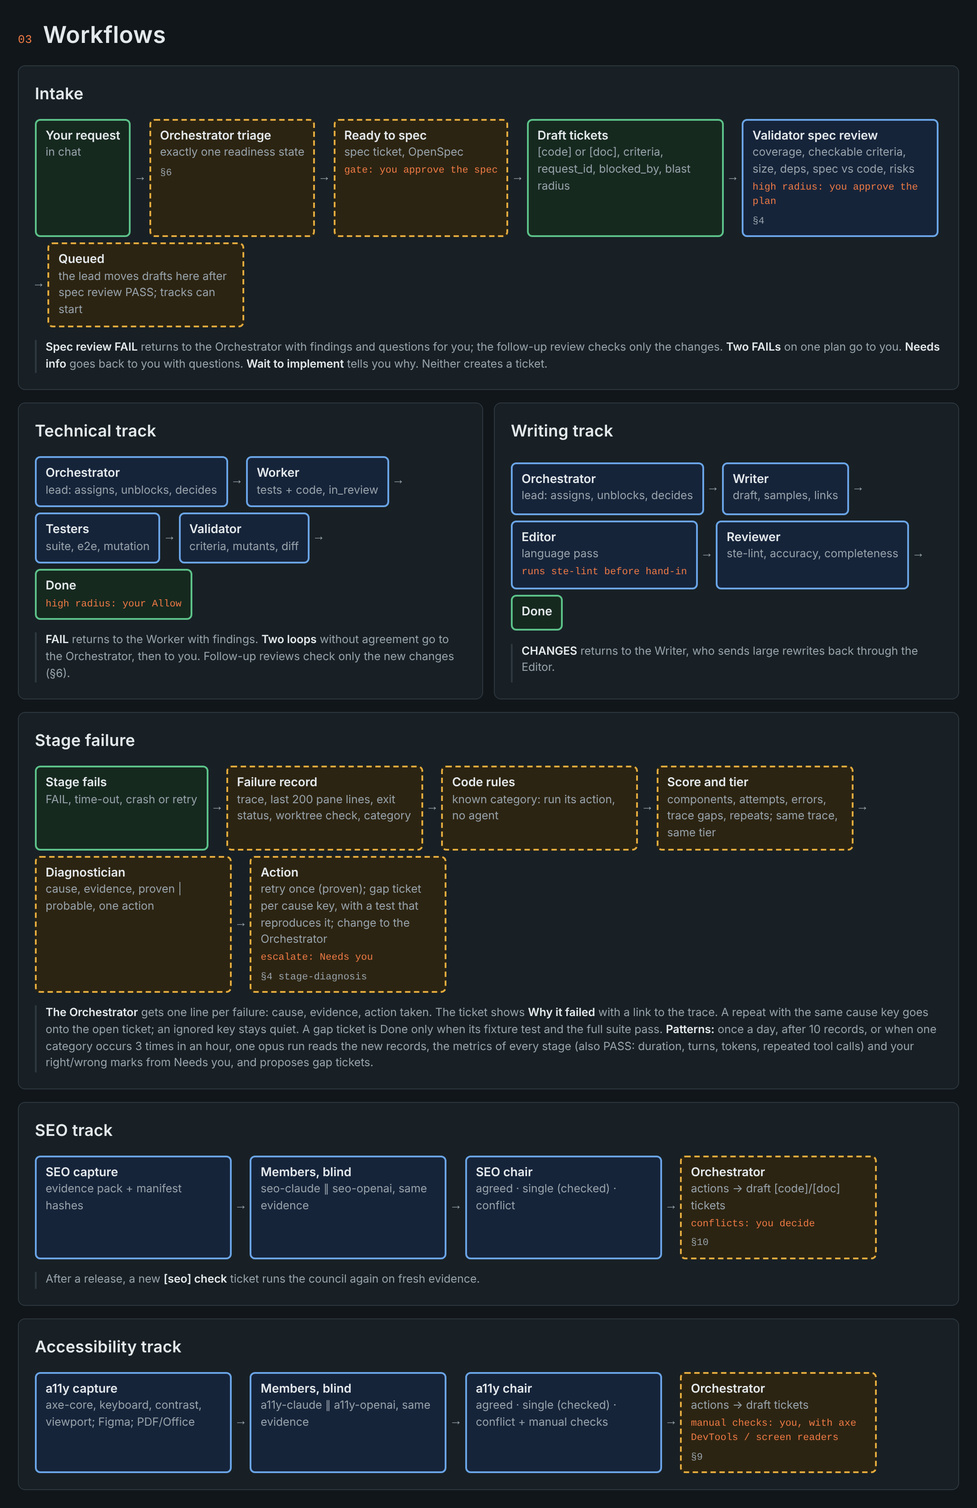
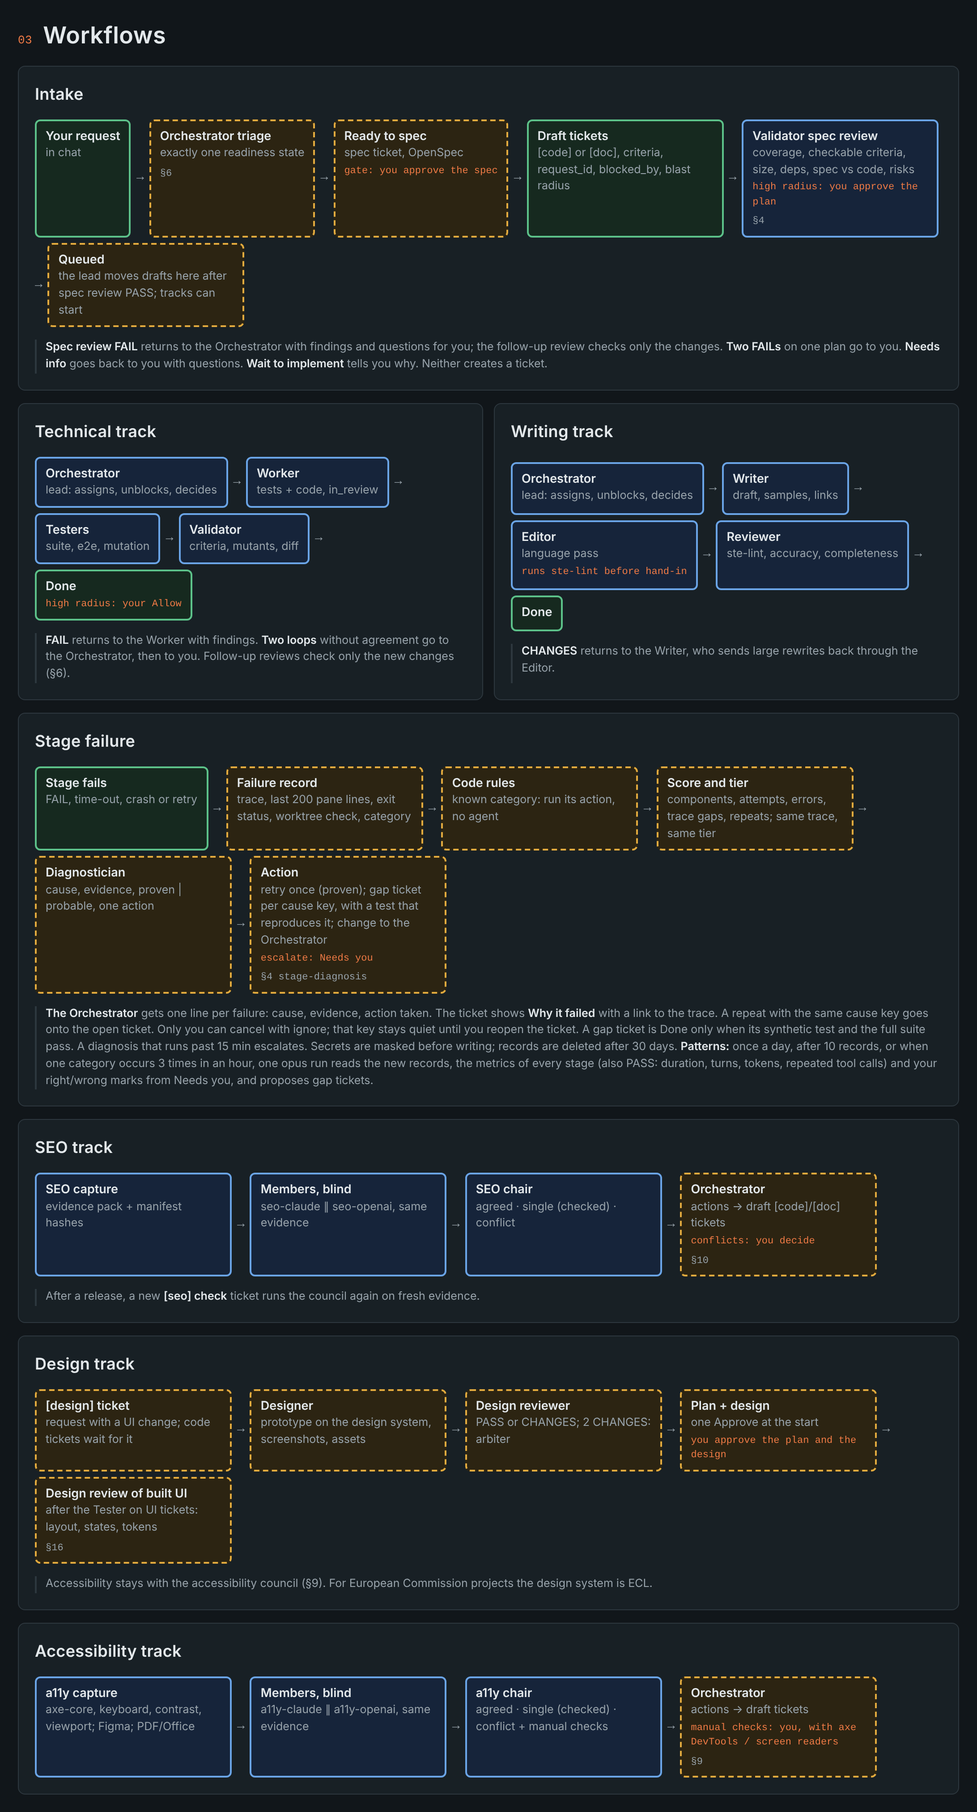
docs: Part 16 design team before Part 14 (mockups for the redesign); Part 6 item 6 cache finding note; map

diff --git a/docs/factory-map.html b/docs/factory-map.html
@@ -328,6 +328,14 @@ footer{color:var(--muted);font-size:12.5px;display:grid;gap:4px}
       <dt>never</dt><dd>changes code or content, ranking guarantees, one SEO score</dd></dl>
     </article>
 
+    <article class="n planned role">
+      <div class="head"><h3>Design team</h3><span class="model">Claude + 2nd model</span></div>
+      <span class="track">Design track · 2 roles</span>
+      <p class="job">Designer (opus for new work, sonnet for changes) makes UI designs before the build, the project design system (ECL for EC projects) and SVG assets. Design reviewer (a different model) checks designs, then the built UI against the approved design.</p>
+      <dl><dt>skills</dt><dd>ui-designer, ux-architect, design-system, frontend-design-direction, frontend-ui-engineering; reviewer: ui-finish-gate-reviewer</dd>
+      <dt>never</dt><dd>changes product code, approves its own work, copies brand marks</dd></dl>
+    </article>
+
     <article class="n defined role">
       <div class="head"><h3>Accessibility &amp; usability council</h3><span class="model">Claude + OpenAI</span></div>
       <span class="track">Accessibility track · 4 seats</span>
@@ -407,6 +415,18 @@ footer{color:var(--muted);font-size:12.5px;display:grid;gap:4px}
   </div>
 
   <div class="panel">
+    <h3>Design track</h3>
+    <div class="flow">
+      <div class="n planned"><span class="t">[design] ticket</span><span class="d">request with a UI change; code tickets wait for it</span></div><span class="arrow">→</span>
+      <div class="n planned"><span class="t">Designer</span><span class="d">prototype on the design system, screenshots, assets</span></div><span class="arrow">→</span>
+      <div class="n planned"><span class="t">Design reviewer</span><span class="d">PASS or CHANGES; 2 CHANGES: arbiter</span></div><span class="arrow">→</span>
+      <div class="n planned"><span class="t">Plan + design</span><span class="d">one Approve at the start</span><span class="gate">you approve the plan and the design</span></div><span class="arrow">→</span>
+      <div class="n planned"><span class="t">Design review of built UI</span><span class="d">after the Tester on UI tickets: layout, states, tokens</span><span class="ref">§16</span></div>
+    </div>
+    <p class="loop">Accessibility stays with the accessibility council (§9). For European Commission projects the design system is ECL.</p>
+  </div>
+
+  <div class="panel">
     <h3>Accessibility track</h3>
     <div class="flow">
       <div class="n defined"><span class="t">a11y capture</span><span class="d">axe-core, keyboard, contrast, viewport; Figma; PDF/Office</span></div><span class="arrow">→</span>
@@ -461,7 +481,7 @@ footer{color:var(--muted);font-size:12.5px;display:grid;gap:4px}
 <!-- 6 BUILD ORDER -->
 <section class="sec" aria-labelledby="h-seq">
   <h2 id="h-seq"><span class="num">06</span>Build order</h2>
-  <p class="intro">The migration comes first, then the rebrand, so Cubilot runs beside the previous app without touching it. Parts 1 to 4 give a working factory with fresh sessions, and 4a gives the agent column that Part 4 needs for its tests. Part 6 comes next, before Part 5 (decision 2026-10-26): review format and model routing make the agents more reliable, and delivery and backup is a local item that can wait. Part 12 follows Part 6 (decision 2026-10-27): the desktop app approach is limiting, so the hub serves the UI to any browser and can run on Linux before the later parts are built. Part 14 follows Part 12 (decision 2026-10-28), so the redesign is done once, on the browser UI. Parts 7 to 10 add toolchain, setup and the two councils; 11 and 13 improve it.</p>
+  <p class="intro">The migration comes first, then the rebrand, so Cubilot runs beside the previous app without touching it. Parts 1 to 4 give a working factory with fresh sessions, and 4a gives the agent column that Part 4 needs for its tests. Part 6 comes next, before Part 5 (decision 2026-10-26): review format and model routing make the agents more reliable, and delivery and backup is a local item that can wait. Part 12 follows Part 6 (decision 2026-10-27): the desktop app approach is limiting, so the hub serves the UI to any browser and can run on Linux before the later parts are built. Part 16 (design team) follows Part 12 and makes the mockups; Part 14 builds them, so the redesign is done once, on the browser UI (decisions 2026-10-28). Parts 7 to 10 add toolchain, setup and the two councils; 11 and 13 improve it.</p>
   <div class="seq">
     <div class="n built first"><span class="step">Step 0</span><span class="t">Migrate to new repo</span><span class="d">done: mnw/Cubilot, fresh history</span></div>
     <div class="n built"><span class="step">1</span><span class="t">Rebrand to Cubilot</span><span class="d">done: own identifier and data folder, side by side with the previous app</span><span class="ref">§1</span></div>
@@ -471,7 +491,8 @@ footer{color:var(--muted);font-size:12.5px;display:grid;gap:4px}
     <div class="n built"><span class="step">4a</span><span class="t">Agent column</span><span class="d">done: built to test Part 4; reload one agent, skill switches</span><span class="ref">§4a</span></div>
     <div class="n planned"><span class="step">6</span><span class="t">Touchpoints, checkpoint, guards, routing</span><span class="d">in planning (human-touchpoints-checkpoint): human only at start and delivery (arbiter, delivery report) with the Orchestrator checkpoint; then plan check, flow report, stop rules; then model × effort; triage, spec stage, review.json</span><span class="ref">§6</span></div>
     <div class="n planned"><span class="step">12</span><span class="t">Hub-first, browser, Linux</span><span class="d">after Part 6: hub serves the UI, terminal layer into the hub, browser access and pairing, Linux</span><span class="ref">§12</span></div>
-    <div class="n planned"><span class="step">14</span><span class="t">UI redesign</span><span class="d">after Part 12, on the browser UI: title bar, tab bar, roster view; WCAG 2.2 AA (agent rail done in 4a)</span><span class="ref">§14</span></div>
+    <div class="n planned"><span class="step">16</span><span class="t">Design team</span><span class="d">after Part 12, before 14: design track (Designer, Design reviewer); makes the mockups for the redesign; design system, design review, assets</span><span class="ref">§16</span></div>
+    <div class="n planned"><span class="step">14</span><span class="t">UI redesign</span><span class="d">after Parts 12 and 16, from the design team's mockups: title bar, tab bar, roster view; WCAG 2.2 AA (agent rail done in 4a)</span><span class="ref">§14</span></div>
     <div class="n planned"><span class="step">5</span><span class="t">Delivery and backup</span><span class="d">after Part 14: internal remote, Deliver step, leak gate, hourly backup</span><span class="ref">§5</span></div>
     <div class="n planned"><span class="step">7</span><span class="t">Toolchain</span><span class="d">bundled tools, worktrees, Serena limits</span><span class="ref">§7</span></div>
     <div class="n planned"><span class="step">8</span><span class="t">Setup and admin</span><span class="d">components, accounts, projects, Doctor</span><span class="ref">§8</span></div>
@@ -484,7 +505,7 @@ footer{color:var(--muted);font-size:12.5px;display:grid;gap:4px}
 </section>
 
 <footer>
-  <span>Sources: <code>factory/README.md</code>, <code>factory/brief/</code> (index + 16 part files; §N = <code>brief/NN-*.md</code>), and <code>MIGRATION.md</code> for the source of the code.</span>
+  <span>Sources: <code>factory/README.md</code>, <code>factory/brief/</code> (index + 17 part files; §N = <code>brief/NN-*.md</code>), and <code>MIGRATION.md</code> for the source of the code.</span>
   <span>Model names are defaults. Check the OpenAI model with <code>pi --list-models</code> before release.</span>
 </footer>
 

diff --git a/factory/brief/16-design-team.md b/factory/brief/16-design-team.md
@@ -1,0 +1,75 @@
+# Part 16: Design team
+
+Status: planned (decision of the human, 2026-10-28). Build it after Part 12 and before Part 14 (decision 2026-10-28): the design team makes the mockups for the UI redesign of Part 14.
+
+## Goal
+
+The factory makes the design of a feature before the Workers build it, keeps a design system for each project, checks the built UI against the design, and makes visual assets. The design team works as a track, like the writing track: a Designer makes the work, a Design reviewer checks it, and the Orchestrator leads.
+
+## What the team produces
+
+1. **UI designs before the build.** For each request with a UI change: the screens or the changed parts, as a static prototype that uses the project's design system, and screenshots of it. The human approves the design together with the plan of the request (Part 6, item 11: one Approve at the start). The code tickets of the request name the approved design.
+2. **Design system.** For each project: the tokens (colour, type, spacing, radius, shadow) as `design-tokens.json` and CSS custom properties, the components and their states, and the patterns. The Designer extracts it from the code when the project has one, and keeps it current. For a European Commission project, the design system is ECL (Europa Component Library). The team uses ECL and does not make a second system.
+3. **Design review of the built UI.** After the Tester on a `[code]` ticket that changes UI: the Design reviewer compares screenshots of the built UI with the approved design and the design system.
+4. **Visual assets.** Icons, illustrations and graphics, as SVG where possible. The team makes them itself. It does not copy third-party brand marks or protected characters. Each asset records its source and licence.
+
+## Roles
+
+| Role | Model | Job | Never |
+|---|---|---|---|
+| Designer | Claude, opus for a new design or design system, sonnet for changes | Makes the designs, the design system and the assets. Runs its own screenshot check before hand-in. | Changes product code. Approves its own work. |
+| Design reviewer | A different model from the Designer: OpenAI on Pi when it is set up, else opus in a new session | Checks a design against the request and the design system, and the built UI against the approved design. PASS or CHANGES. | Edits files. |
+
+## Where the work lives
+
+In the project repository:
+- `design/system/`: `design-tokens.json`, `tokens.css`, `components.md`.
+- `design/<request-id>/`: `brief.md` (the screens and states), the prototype (static HTML and CSS that load `design/system/tokens.css`), and `screenshots/` (desktop and mobile, light and dark where the project has them).
+- `design/assets/`: SVG files, each with a line in `design/assets/SOURCES.md`.
+
+Inputs:
+- Figma files, read with the Figma MCP (`get_design_context`, `get_screenshot`, `get_variable_defs`) when the project has them. The team does not write to Figma.
+- The existing UI, through screenshots that Playwright makes.
+
+## Flow
+
+1. The Orchestrator triages a request (Part 6, item 1). A request with a UI change gets a `[design]` ticket first.
+2. Designer: makes the design or the system change, and its screenshots.
+3. Design reviewer: PASS or CHANGES. CHANGES goes back to the Designer. After two CHANGES, the arbiter decides (Part 6, item 11).
+4. The plan of the request goes to the human with the design screenshots. One Approve covers both.
+5. The Workers build. Each UI ticket names the screens of the approved design that it implements.
+6. After the Tester, a design-review stage runs on each UI ticket. Blocking: the built UI differs from the approved design in layout, hierarchy, content or states, or it uses values that are not in the design system. Suggestion: small visual differences. Then the Validator.
+7. Accessibility (WCAG 2.2 AA, EN 301 549) stays with the accessibility council (Part 9). The Design reviewer flags an obvious problem as a suggestion and names Part 9.
+
+## Skills
+
+Sources as for the other roles (`factory/README.md`). Copy each skill with its source note and licence.
+
+| Role | Core | Optional |
+|---|---|---|
+| Designer | `agency-design-ui-designer`, `agency-design-ux-architect`, `design-system` (ECC), `frontend-design-direction` (ECC), `frontend-ui-engineering` (Osmani) | `agency-design-brand-guardian`, `agency-design-visual-storyteller`, `agency-design-inclusive-visuals-specialist` |
+| Design reviewer | `agency-design-ui-finish-gate-reviewer`, `design-system` (ECC, audit mode) | `agency-design-ux-researcher`, `agency-design-persona-walkthrough` |
+
+## Dependencies
+
+- The hub stage chain for the roles `designer` and `design-reviewer`. The hub refuses roles without a chain today (role-chain gate). Build this chain with the writing chain (parked drafts "writing chain 1/2 and 2/2"), with one mechanism for both tracks.
+- Part 6, item 11 (one Approve at the start, the arbiter).
+- Part 12 comes first: the design team designs for the browser UI that the hub serves.
+- Part 14 uses this part: the Designer makes the mockups of the redesigned browser UI from the Part 14 brief, the Design reviewer checks them, and the human approves them before the Workers build. For Cubilot itself, the design system is `ui/styles/tokens.css` (the three themes).
+
+## Tests
+
+1. A request with a UI change gets a `[design]` ticket before its code tickets, and the code tickets are blocked by it.
+2. The human's Approve at the start shows the design screenshots.
+3. A built UI that uses a colour value outside the design system gets a blocking design-review finding.
+4. On a European Commission project, the Designer uses ECL tokens and components, and creates no new token set.
+5. Each asset in `design/assets/` has a line in `SOURCES.md`.
+
+## Open questions
+
+1. Image generation (illustrations that are not SVG): which model, and is it in scope? Today: SVG only.
+2. Does the design review run on every UI ticket, or only when the ticket names a screen of an approved design?
+
+---
+
+Index: [00-index.md](00-index.md). This part is one file of the implementation brief. "Part N" means file `NN-*.md` in this folder.

diff --git a/factory/brief/00-index.md b/factory/brief/00-index.md
@@ -11,7 +11,7 @@ Date: 2026-10-16. Line numbers refer to the working tree on that date, with the 
 
 The app has the name Cubilot (Part 1, done). The app must also launch any agent with a factory role, and must launch a full factory team in one action. A role gives the agent its instructions, its model, its tool limits and only its own skills. The role definitions and skills are in `factory/` (see `README.md`).
 
-The brief has sixteen parts. The numbers follow the build order (decision 2026-10-19). Each part is one file in this folder:
+The brief has seventeen parts. The numbers follow the build order (decision 2026-10-19). Each part is one file in this folder:
 1. [01-rebrand.md](01-rebrand.md): Rebrand to Cubilot (done). The names in use, the open items, and how to retire the previous app.
 2. [02-factory-roles.md](02-factory-roles.md): Factory roles (done): launch agents with a role. First, use a launch script, before the app work.
 3. [03-ticket-grouping-checkpoints.md](03-ticket-grouping-checkpoints.md): Ticket grouping (done): requests, `blocked_by` and the `draft` status. The context checkpoints stay an idea.
@@ -26,12 +26,13 @@ The brief has sixteen parts. The numbers follow the build order (decision 2026-1
 11. [11-dashboard.md](11-dashboard.md): Progress dashboard: what waits for the human, what is stuck, flow, quality and cost.
 12. [12-hub-first-linux.md](12-hub-first-linux.md): Hub-first architecture, browser access and Linux hosting (planned). Build it directly after Part 6 (decision 2026-10-27).
 13. [13-mutation-testing.md](13-mutation-testing.md): Mutation testing: advisory first, opt-in for each project. Last, because of its risk.
-14. [14-ui-redesign.md](14-ui-redesign.md): UI redesign (refined warm terminal). Build it directly after Part 12 (decision 2026-10-28), on the browser UI. One agent rail, one title bar and a compact chat log. One tab bar for the right pane, clearer ticket cards and an Agent roster view.
+14. [14-ui-redesign.md](14-ui-redesign.md): UI redesign (refined warm terminal). Build it after Part 12 and Part 16 (decisions 2026-10-28), on the browser UI, from the design team's mockups. One agent rail, one title bar and a compact chat log. One tab bar for the right pane, clearer ticket cards and an Agent roster view.
 15. [15-ticket-card-dialog.md](15-ticket-card-dialog.md): Ticket card and ticket dialog redesign (done). It replaces T11, T12 and T13 of Part 14.
+16. [16-design-team.md](16-design-team.md): Design team (planned, decision 2026-10-28): a design track (Designer, Design reviewer) for UI designs before the build, a design system per project (ECL for European Commission projects), design review of the built UI, and visual assets. Build it after Part 12 and before Part 14: it makes the mockups for the UI redesign.
 
 ## How to use these files
 
 - Each part is complete in its file. It names other parts as "Part N". Find Part N in the list above.
-- Build order: the parts in their number order, with two exceptions. Part 6 comes before Part 5 (decision 2026-10-26). Part 12 comes directly after Part 6, before Part 5 (decision 2026-10-27): the desktop app approach limits the factory, and Parts 7, 8, 11 and 14 must be built on the hub-served UI from the start. The order is 1, 2, 3, 4, 6, 12, 14, 5, 7, 8, 9, 10, 11, 13. Part 14 follows Part 12 (decision 2026-10-28), so the redesign is done once, on the browser UI. Part 6 makes the work of the agents more reliable. Part 5 is a local item that can wait. Parts 2 and 4 have a fast path outside the app: a launch script and a ticket runner. You can set up the hourly backup of Part 5 at once.
+- Build order: the parts in their number order, with these exceptions. Part 6 comes before Part 5 (decision 2026-10-26). Part 12 comes directly after Part 6, before Part 5 (decision 2026-10-27): the desktop app approach limits the factory, and Parts 7, 8, 11 and 14 must be built on the hub-served UI from the start. The order is 1, 2, 3, 4, 6, 12, 16, 14, 5, 7, 8, 9, 10, 11, 13. Part 16 (design team) comes before Part 14, because it makes the mockups for the redesign (decision 2026-10-28). Part 14 follows Parts 12 and 16, so the redesign is done once, on the browser UI. Part 6 makes the work of the agents more reliable. Part 5 is a local item that can wait. Parts 2 and 4 have a fast path outside the app: a launch script and a ticket runner. You can set up the hourly backup of Part 5 at once.
 - Why this order: Parts 1 to 5 make a working factory with fresh sessions and safe delivery. Parts 6 to 10 add the review format, the toolchain, the setup screen and the two councils. Part 12 makes the UI reachable from a browser and the hub able to run on Linux. Parts 11 and 13 are improvements and the part with the most risk.
 - The order of Parts 1 and 2 changed on 2026-10-21: the rebrand is now first.

diff --git a/README.md b/README.md
@@ -25,12 +25,12 @@ Cubilot is a macOS desktop app. It runs a team of coding agents (Claude Code, an
 
 <picture>
   <source media="(prefers-color-scheme: dark)" srcset="docs/readme/02-roles-dark.png">
-  <img alt="Roles, models and skills: Orchestrator, Worker, Tester, Validator, Writer, Editor, Reviewer, the planned Diagnostician, and the SEO and accessibility councils" src="docs/readme/02-roles-light.png" width="100%">
+  <img alt="Roles, models and skills: Orchestrator, Worker, Tester, Validator, Writer, Editor, Reviewer, the planned Diagnostician, the SEO council, the planned design team and the accessibility council" src="docs/readme/02-roles-light.png" width="100%">
 </picture>
 
 <picture>
   <source media="(prefers-color-scheme: dark)" srcset="docs/readme/03-workflows-dark.png">
-  <img alt="Workflows: intake with spec review, the technical and writing tracks, stage failure diagnosis, and the SEO and accessibility tracks" src="docs/readme/03-workflows-light.png" width="100%">
+  <img alt="Workflows: intake with spec review, the technical and writing tracks, stage failure diagnosis, and the SEO, design and accessibility tracks" src="docs/readme/03-workflows-light.png" width="100%">
 </picture>
 
 <picture>
@@ -45,7 +45,7 @@ Cubilot is a macOS desktop app. It runs a team of coding agents (Claude Code, an
 
 <picture>
   <source media="(prefers-color-scheme: dark)" srcset="docs/readme/06-build-order-dark.png">
-  <img alt="Build order: migration, rebrand, roles, ticket grouping, the agent column (4a) and the ticket card and dialog (15) done; Part 4 in test; then Part 6, Part 12 (hub-first, browser access, Linux), Part 14 (UI redesign on the browser UI), Part 5, and Parts 7 to 13" src="docs/readme/06-build-order-light.png" width="100%">
+  <img alt="Build order: migration, rebrand, roles, ticket grouping, the agent column (4a) and the ticket card and dialog (15) done; Part 4 in test; then Part 6, Part 12 (hub-first, browser access, Linux), Part 16 (design team, mockups), Part 14 (UI redesign on the browser UI), Part 5, Parts 7 to 11 and Part 13" src="docs/readme/06-build-order-light.png" width="100%">
 </picture>
 
 ## Build from source

diff --git a/factory/brief/14-ui-redesign.md b/factory/brief/14-ui-redesign.md
@@ -1,6 +1,6 @@
 # Part 14: UI redesign (refined warm terminal)
 
-Status: ready to plan. Build it directly after Part 12 (decision 2026-10-28), on the UI that the hub serves to the browser. Line references below are from 2026-10-22 and must be checked again after Part 12. The human chose to include every proposal on the mockup. Some tickets wait for an answer from the human (see "Open questions").
+Status: ready to plan. Build it after Part 12 and Part 16 (decisions 2026-10-28), on the UI that the hub serves to the browser. The design team (Part 16) makes the mockups first, from this brief, and the human approves them. Line references below are from 2026-10-22 and must be checked again after Part 12. The human chose to include every proposal on the mockup. Some tickets wait for an answer from the human (see "Open questions").
 Date: 2026-10-22. File paths and line numbers refer to the working tree on that date (`main`, 4 commits ahead of `origin/main`).
 Reader: the Orchestrator. Split this part into tickets. The section "Tickets" gives one ticket for each item, with acceptance criteria.
 

diff --git a/factory/brief/12-hub-first-linux.md b/factory/brief/12-hub-first-linux.md
@@ -88,7 +88,7 @@ Tests for Linux:
 
 - Parts 1 to 4 and Part 6 come first, in the current app on macOS.
 - Then this part, before Part 5 and Parts 7 to 11 (decision 2026-10-27). So the Doctor (Part 7), the setup screen (Part 8) and the dashboard (Part 11) are built in the hub and served to the browser from the start. Nothing moves later.
-- Part 14 (UI redesign) comes directly after this part (decision 2026-10-28). It works on the UI that the hub serves, so the redesign is done once, in the browser.
+- Then Part 16 (design team) and Part 14 (UI redesign) (decisions 2026-10-28). The design team makes the mockups, and Part 14 builds them on the UI that the hub serves, so the redesign is done once, in the browser.
 - First step: the tmux control mode test (open question 1). It decides the terminal design. Second step: move the settings commands. Third step: the terminal stream. Fourth step: browser access and pairing. Fifth step: the Linux checklist.
 - Start with an OpenSpec change for steps 1 to 4. The Linux checklist can be a second change.
 

diff --git a/factory/brief/06-warp-patterns.md b/factory/brief/06-warp-patterns.md
@@ -118,6 +118,7 @@ For each Worker stage, the hub chooses the model (Haiku, Sonnet or Opus) and the
 - The launch accepts a model × effort pair for one launch (Part 2, the model × effort picker).
 - `config.yml` sets the pair for each role. Check before you build: name the exact key in this brief.
 - Tickets have a blast radius, acceptance criteria, a title tag such as `[code]`, and a request (Part 3).
+- Cache finding t_1d56 (2026-10-28, `test-reports/t_1d56be14bddc5d3b.md`): a Claude stage reads only the tools and the system prompt from the cache (8165, 12926 or 13670 of 38k to 46k first-prompt tokens). Human decision: option A, no change now. When this item measures stage cost, examine options B, C1 and C2 of that report again.
 
 #### Design
 
